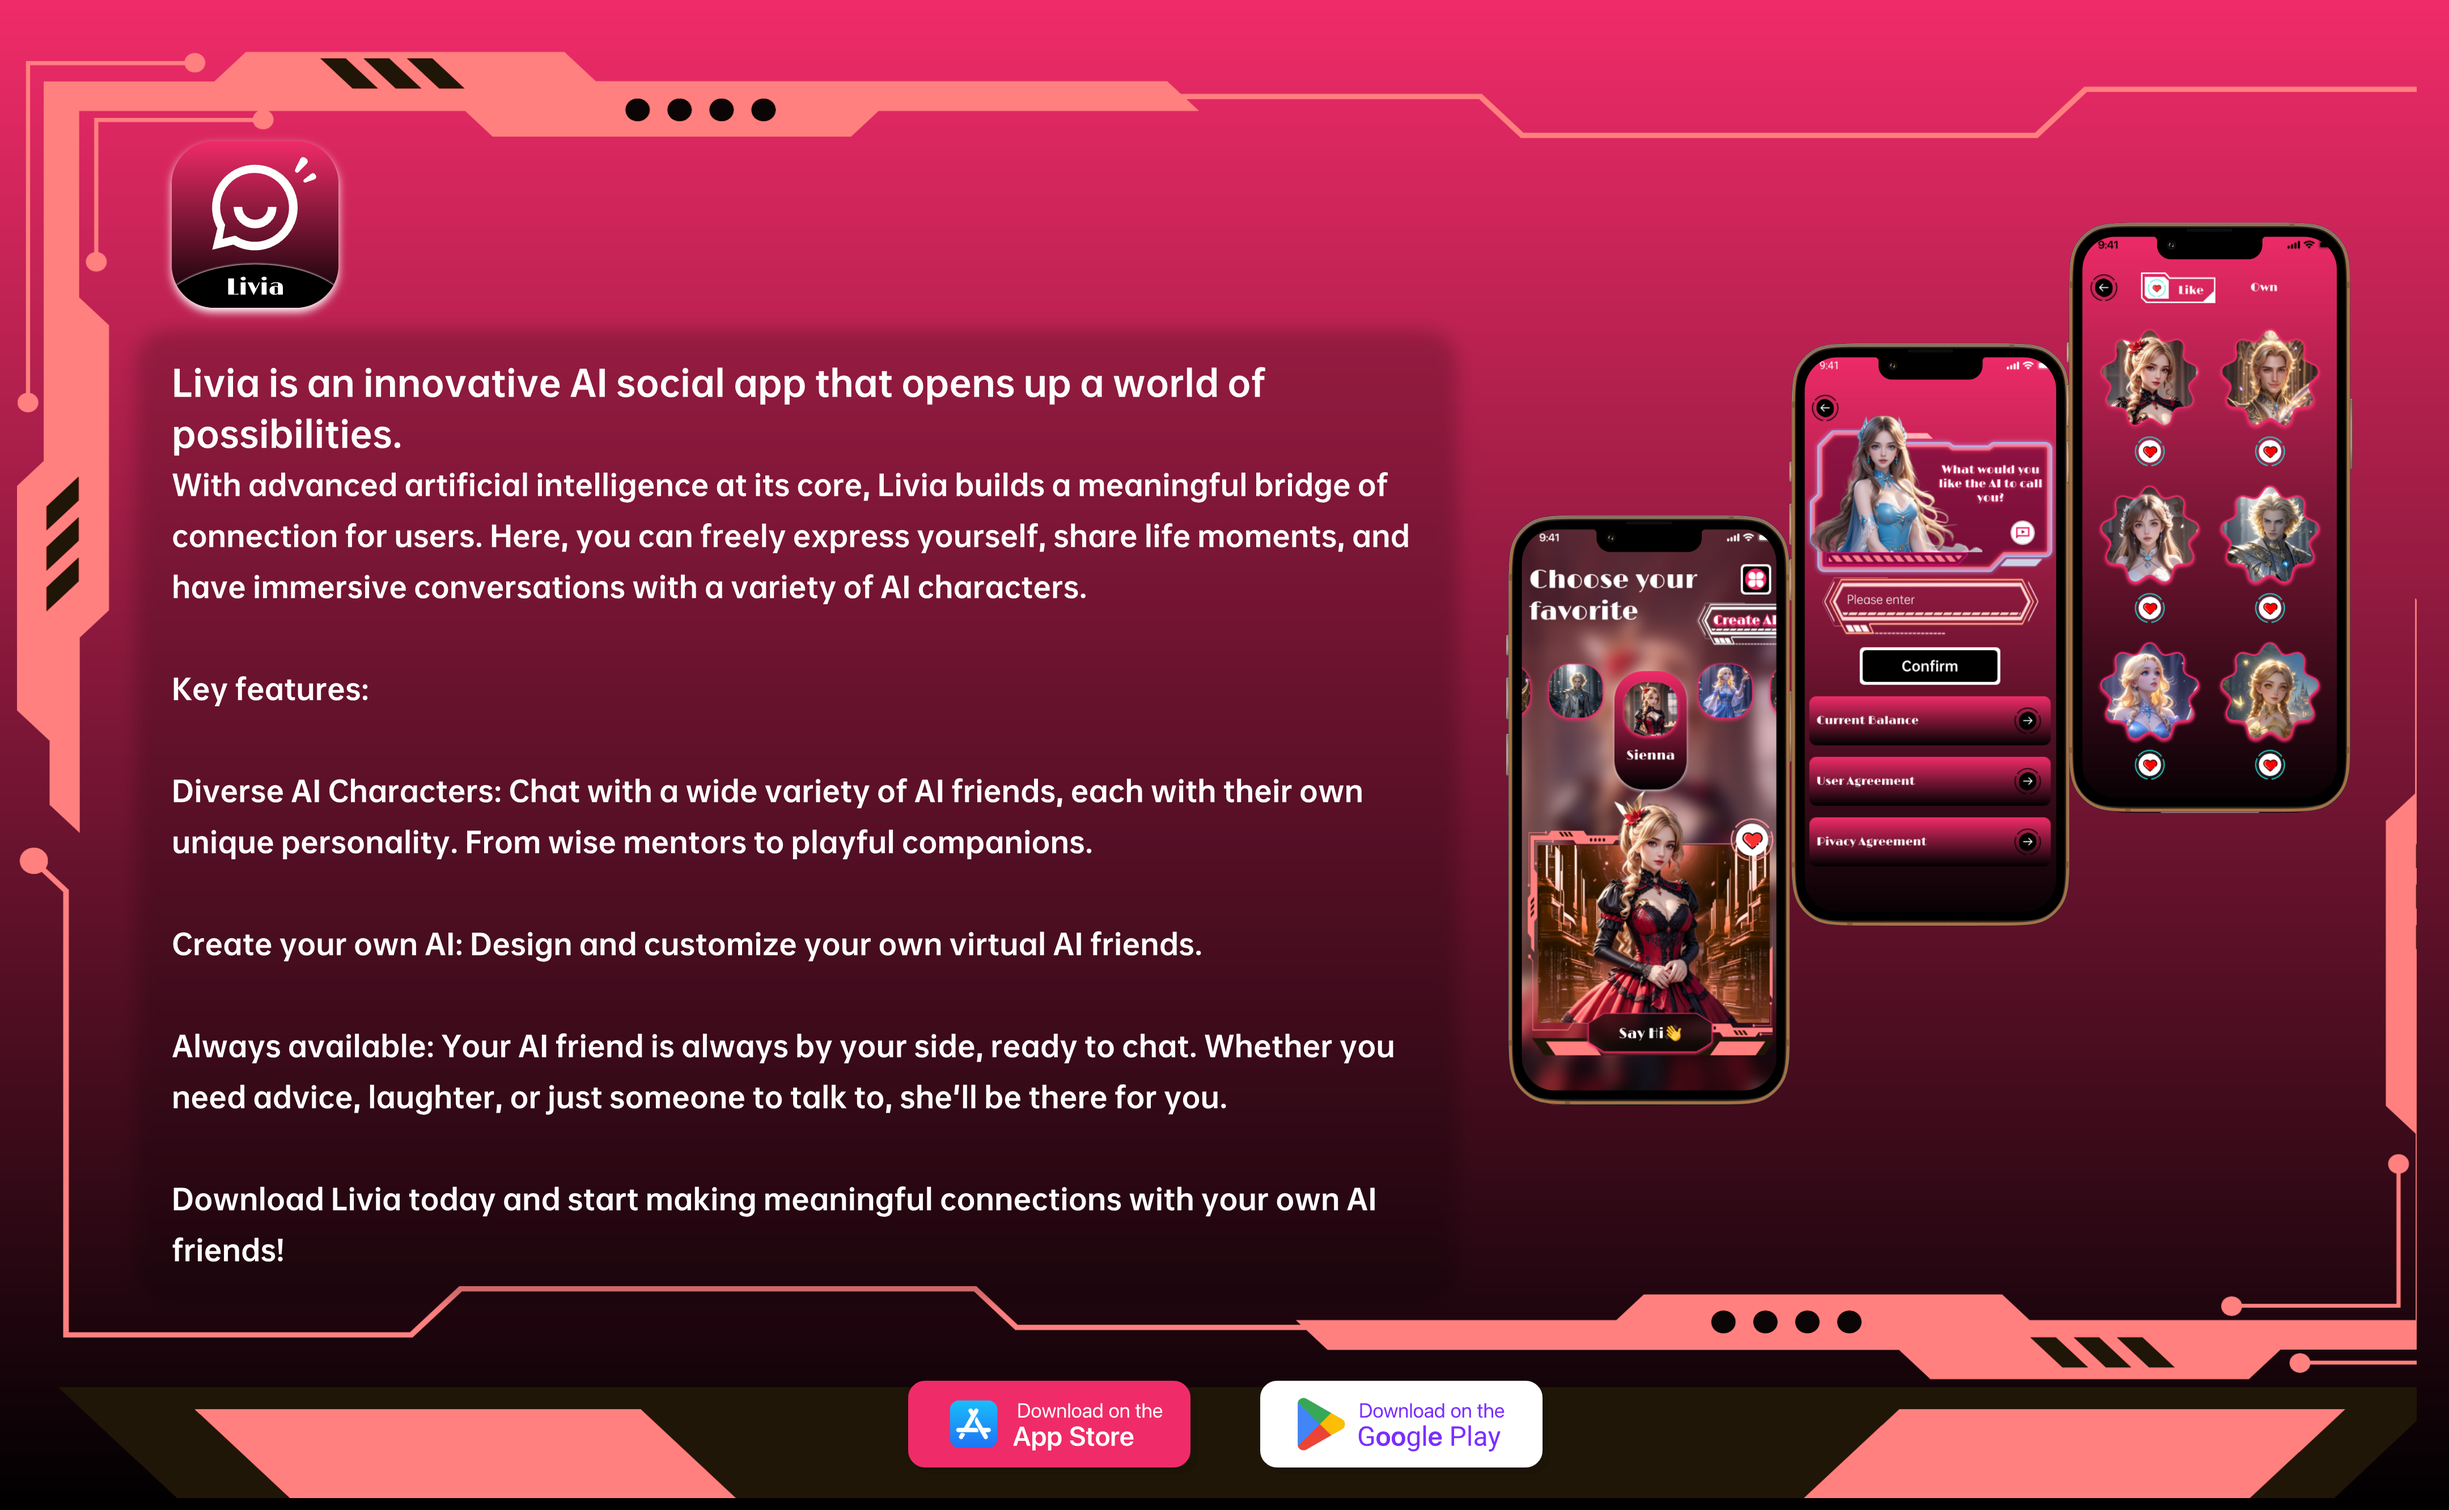
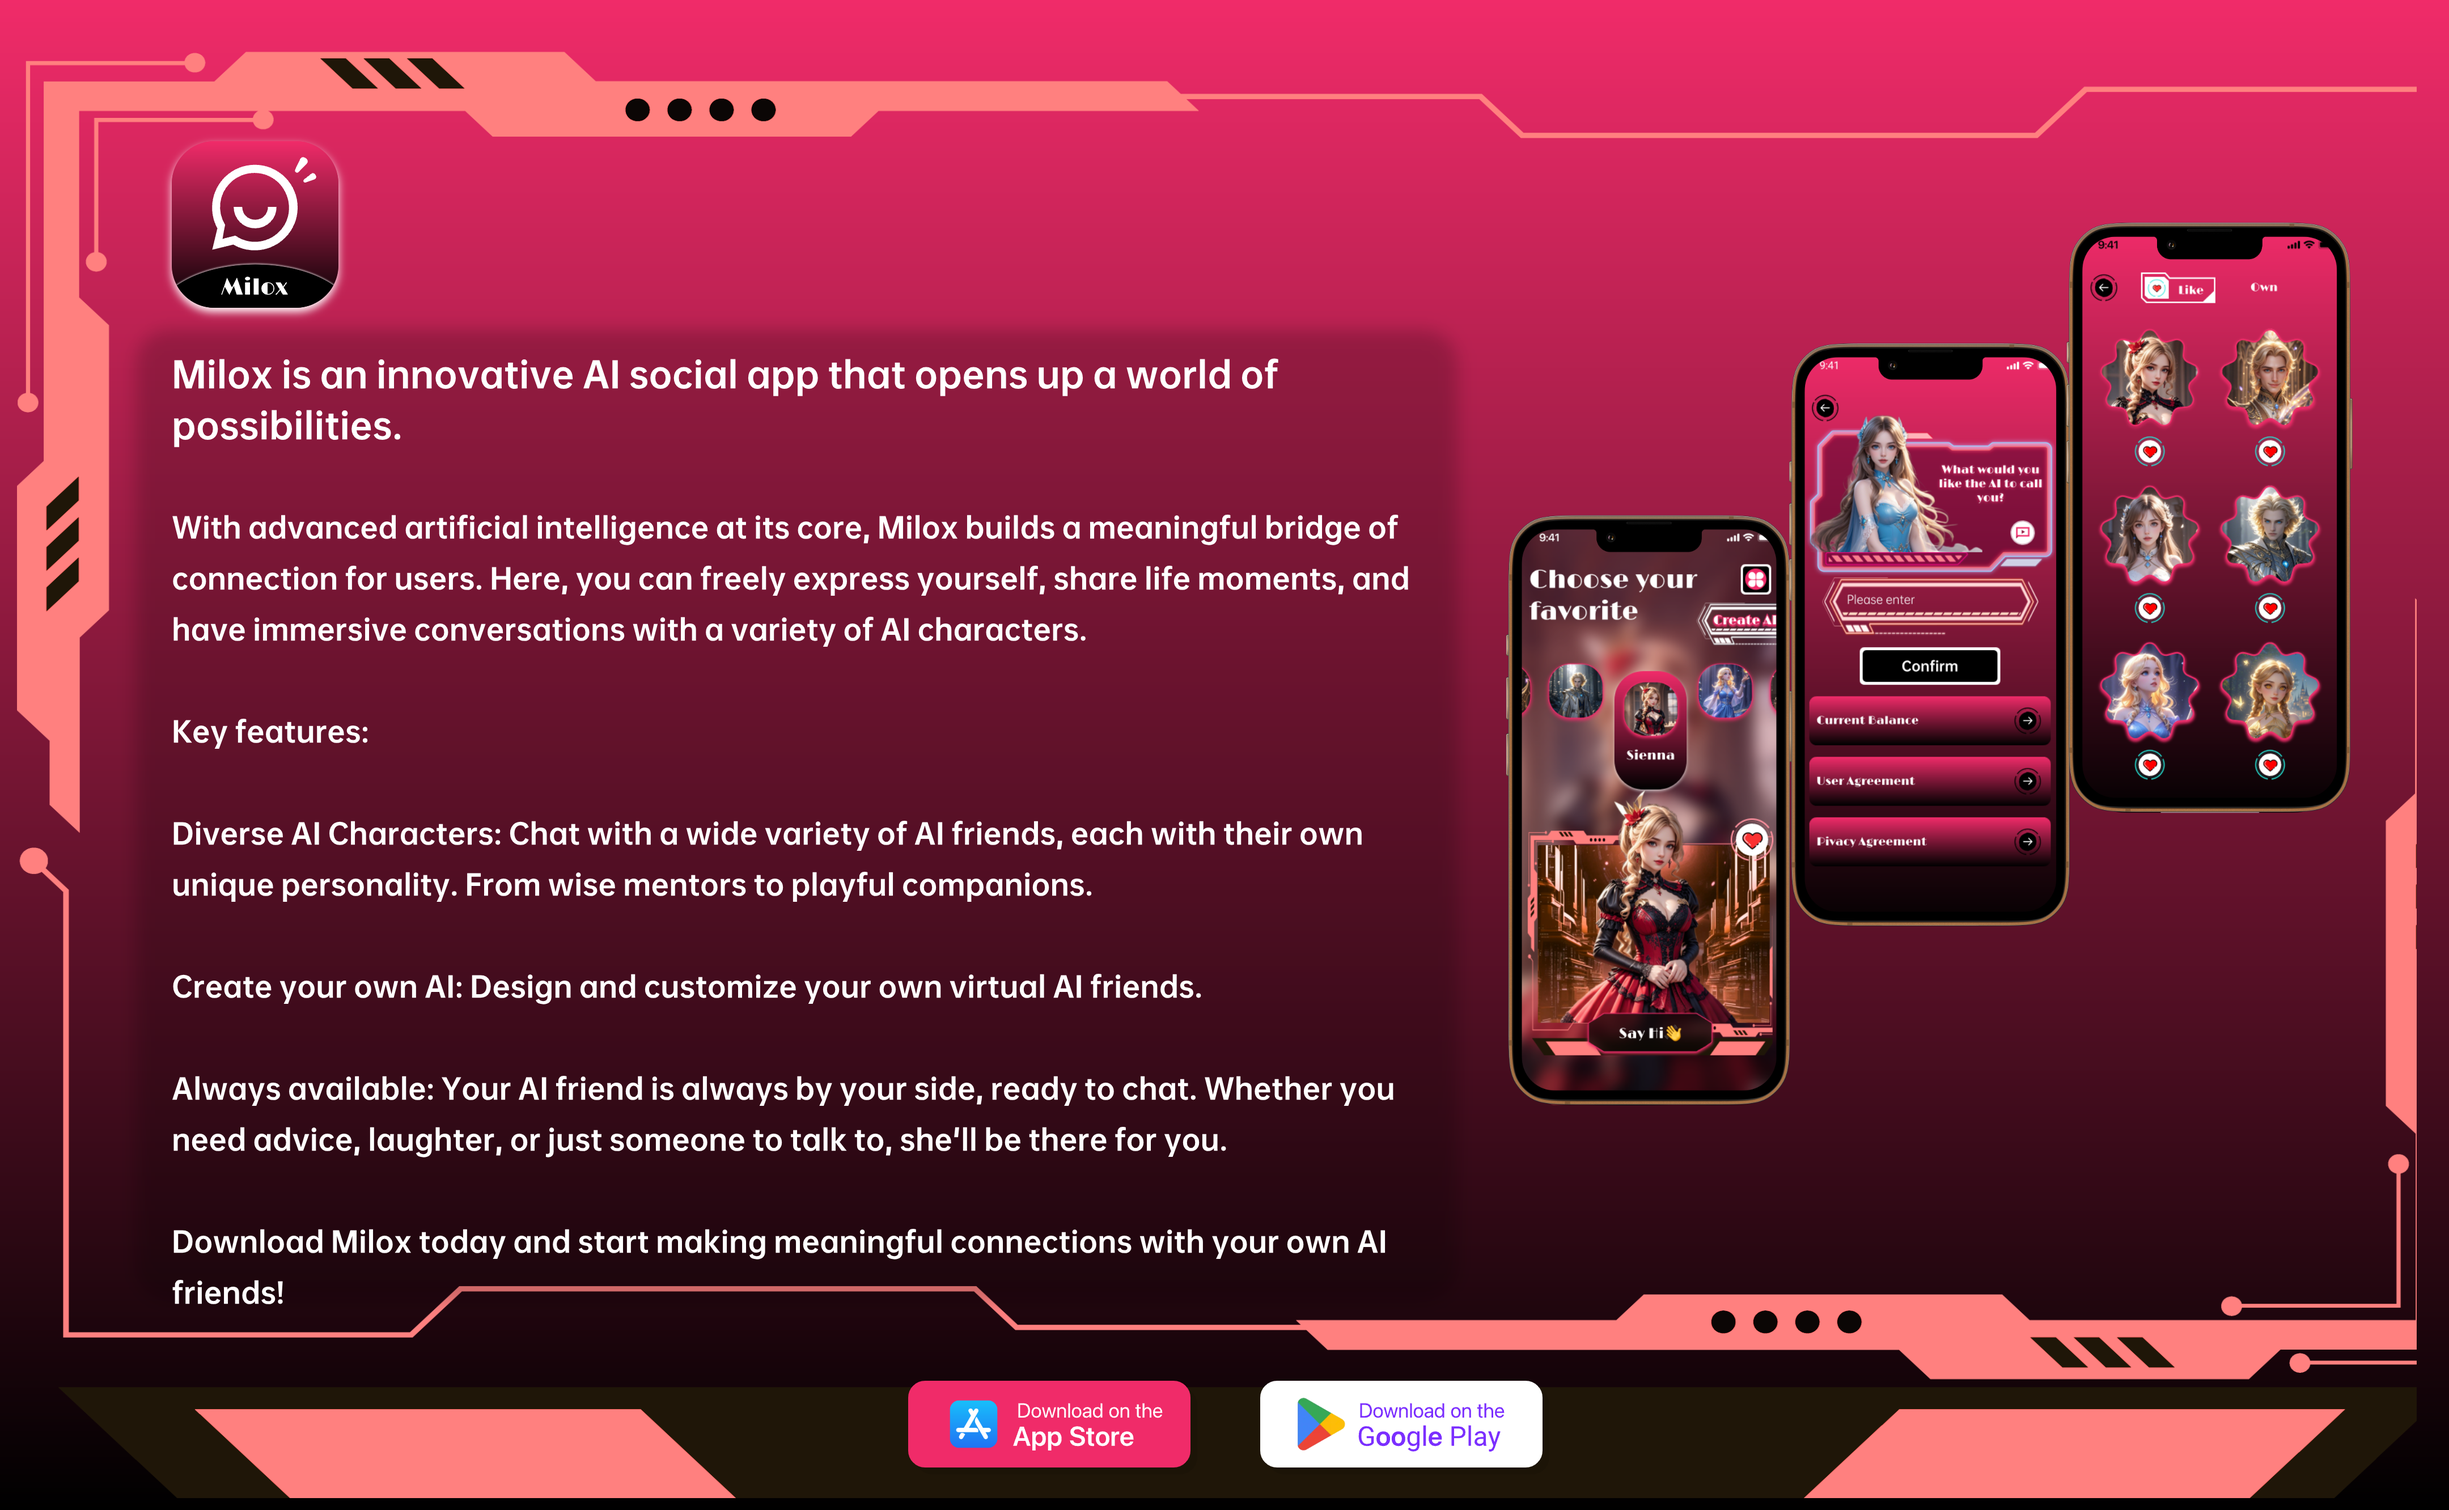
1

Changed region(s): [[0.0625, 0.1869, 0.5938, 0.592], [0.0625, 0.6231, 0.5625, 0.8724]]

diff --git a/index.html b/index.html
@@ -5,7 +5,7 @@
   <meta name="viewport" content="width=device-width, initial-scale=1.0">
   <link rel="icon" href="/favicon.svg" type="image/svg+xml">
 
-  <title>Livia</title>
+  <title>Milox</title>
 
   <title>boundfl</title>
 

diff --git a/src/pages/privacy.vue b/src/pages/privacy.vue
@@ -2,7 +2,7 @@
 defineOptions({
   name: 'IndexPage',
 })
-const appName = 'Livia'
+const appName = 'Milox'
 </script>
 
 <template>

diff --git a/src/pages/users.vue b/src/pages/users.vue
@@ -2,7 +2,7 @@
 defineOptions({
   name: 'IndexPage',
 })
-const appName = 'Livia'
+const appName = 'Milox'
 </script>
 
 <template>
